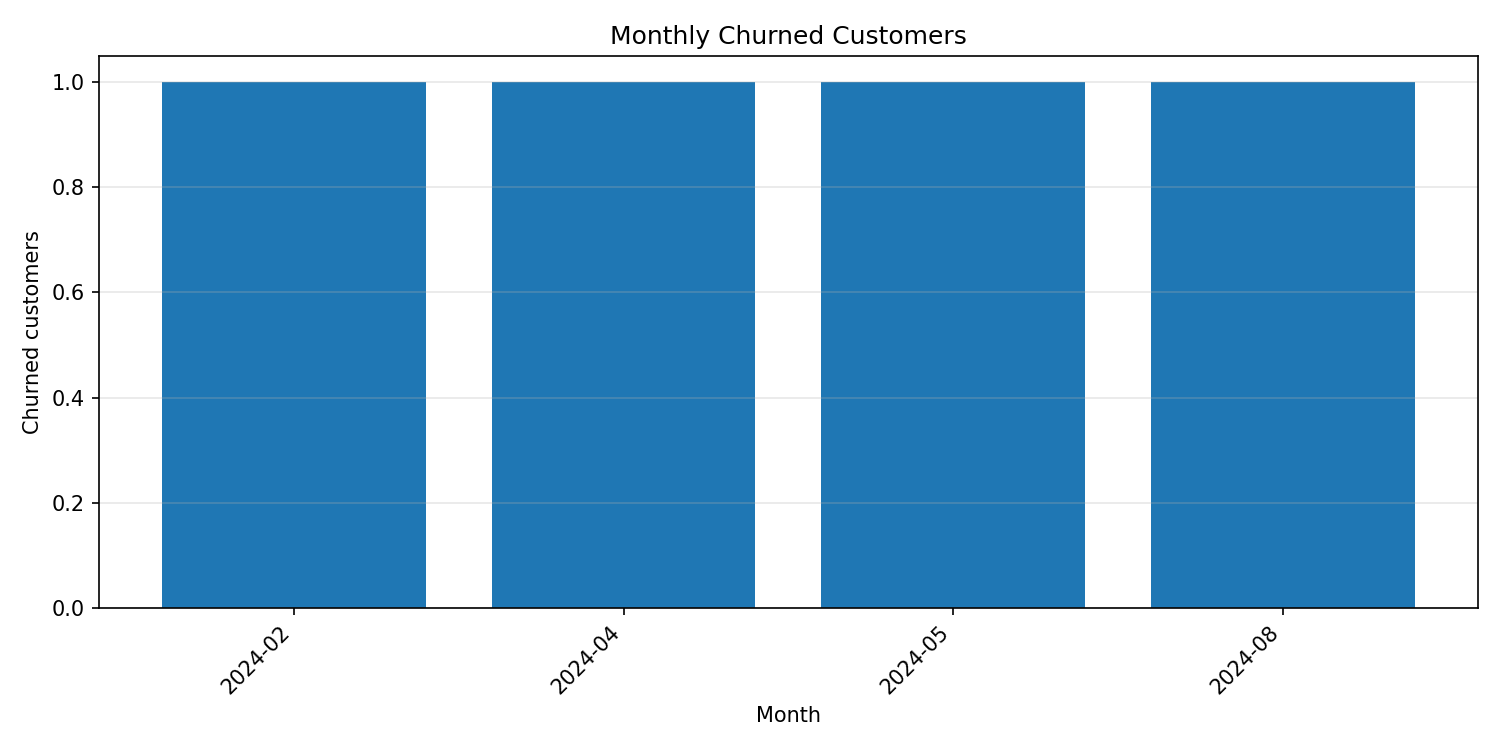
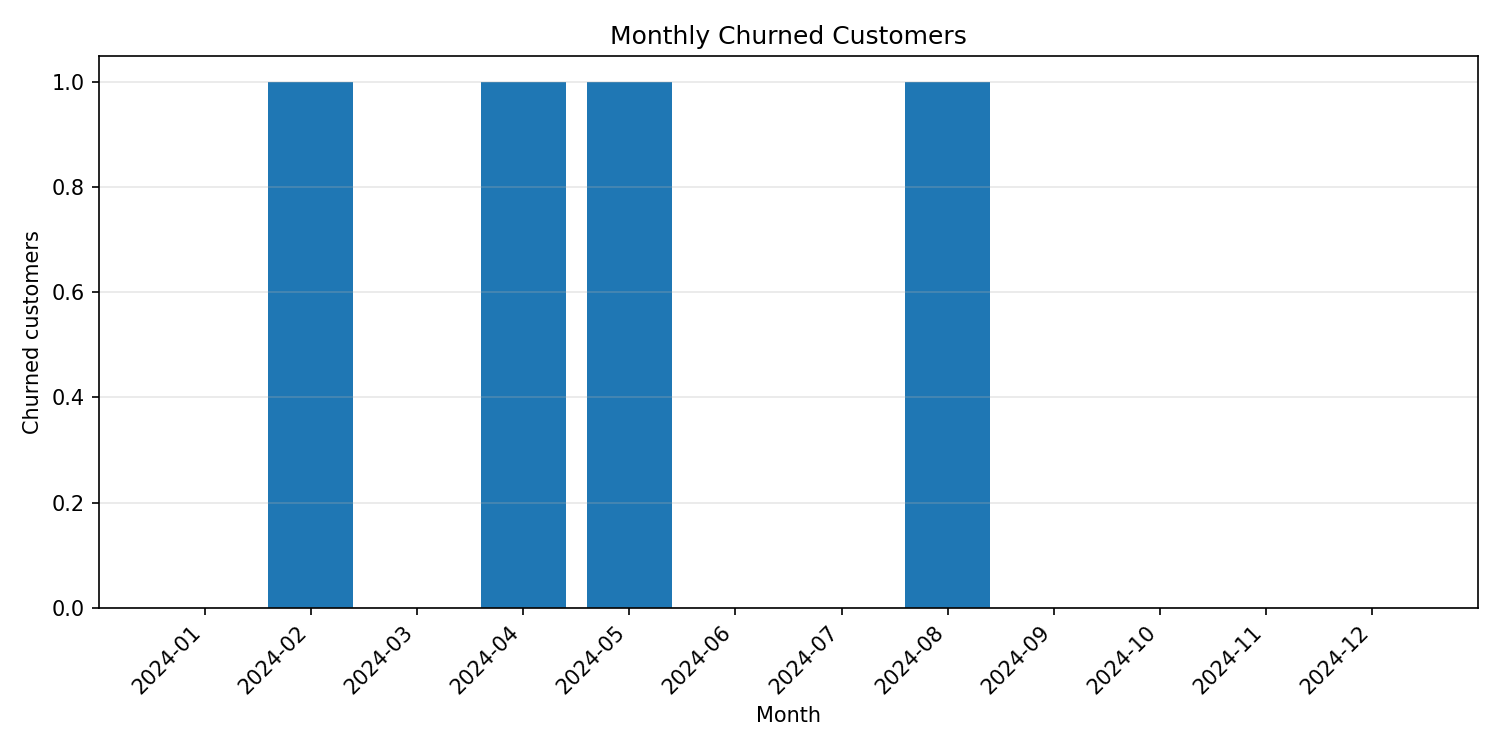
Include zero months in churn metric

diff --git a/src/metrics.py b/src/metrics.py
@@ -40,6 +40,9 @@ def monthly_mrr(subscriptions: list[Subscription]) -> list[dict[str, object]]:
 
 
 def monthly_churned_customers(subscriptions: list[Subscription]) -> list[dict[str, object]]:
+    if not subscriptions:
+        return []
+
     churn_counts: dict[str, int] = defaultdict(int)
     by_customer: dict[str, list[Subscription]] = defaultdict(list)
     for subscription in subscriptions:
@@ -59,10 +62,17 @@ def monthly_churned_customers(subscriptions: list[Subscription]) -> list[dict[st
             if not has_timely_resubscription:
                 churn_counts[_month_key(subscription.end_date)] += 1
 
-    return [
-        {"month": month, "churned_customers": churn_counts[month]}
-        for month in sorted(churn_counts)
-    ]
+    first_month = _month_start(min(subscription.start_date for subscription in subscriptions))
+    last_month = _latest_relevant_month(subscriptions)
+    rows: list[dict[str, object]] = []
+
+    current = first_month
+    while current <= last_month:
+        month = _month_key(current)
+        rows.append({"month": month, "churned_customers": churn_counts[month]})
+        current = current + relativedelta(months=1)
+
+    return rows
 
 
 def signup_cohorts(

diff --git a/tests/test_metrics.py b/tests/test_metrics.py
@@ -22,7 +22,11 @@ def test_churn_resubscription_on_day_30_prevents_churn() -> None:
         Subscription("C001", date(2024, 3, 1), None, "basic", 30.0, 3),
     ]
 
-    assert monthly_churned_customers(subscriptions) == []
+    assert monthly_churned_customers(subscriptions) == [
+        {"month": "2024-01", "churned_customers": 0},
+        {"month": "2024-02", "churned_customers": 0},
+        {"month": "2024-03", "churned_customers": 0},
+    ]
 
 
 def test_churn_resubscription_after_day_30_counts_churn() -> None:
@@ -32,7 +36,9 @@ def test_churn_resubscription_after_day_30_counts_churn() -> None:
     ]
 
     assert monthly_churned_customers(subscriptions) == [
-        {"month": "2024-01", "churned_customers": 1}
+        {"month": "2024-01", "churned_customers": 1},
+        {"month": "2024-02", "churned_customers": 0},
+        {"month": "2024-03", "churned_customers": 0},
     ]
 
 
